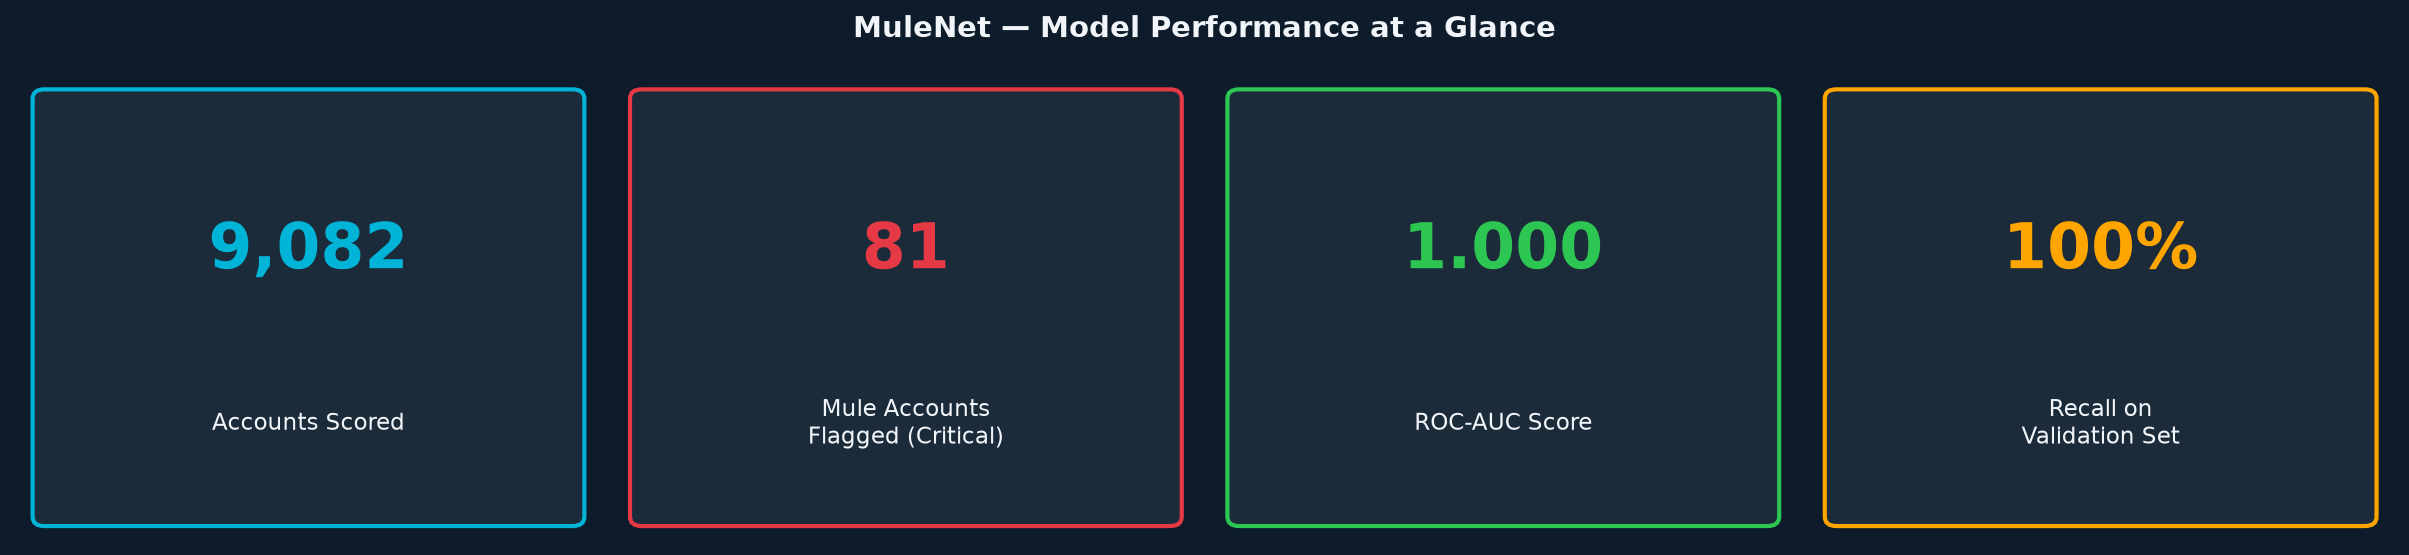
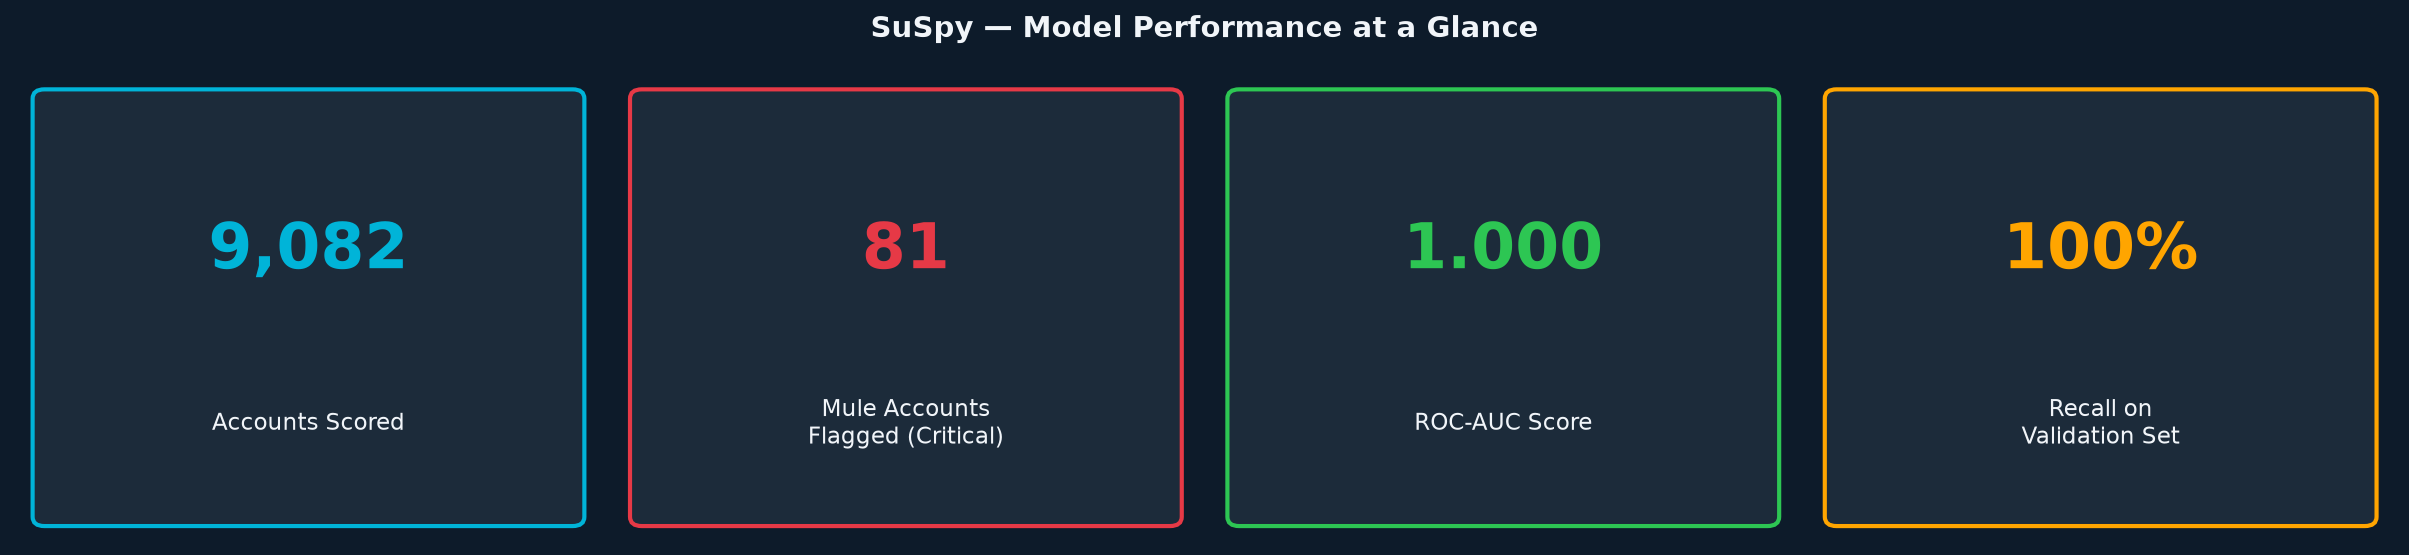
Replaced with new Name

Changed region(s): [[0.3425, 0.0306, 0.6538, 0.0919]]

diff --git a/src/score.py b/src/score.py
@@ -1,13 +1,3 @@
-"""
-MuleNet MVP — Risk scoring / inference
-
-Loads a trained XGBoost model and scores new accounts, producing
-a 0-100 Dynamic Risk Index (DRI) and risk tier per account.
-
-Usage:
-    python src/score.py --data data/new_accounts.csv --model outputs/mule_classifier.json
-"""
-
 import argparse
 import json
 import os
@@ -82,7 +72,7 @@ def main(data_path: str, model_path: str, out_path: str):
 
 
 if __name__ == "__main__":
-    parser = argparse.ArgumentParser(description="Score accounts with trained MuleNet model")
+    parser = argparse.ArgumentParser(description="Score accounts with trained SuSpy model")
     parser.add_argument("--data", required=True, help="Path to dataset CSV (with or without target)")
     parser.add_argument("--model", default="outputs/mule_classifier.json", help="Path to trained model")
     parser.add_argument("--out", default="outputs/risk_scores.csv", help="Output CSV path")

diff --git a/src/generate_report_assets.py b/src/generate_report_assets.py
@@ -1,9 +1,3 @@
-"""
-MuleNet — Report Asset Generator
-Produces all visual assets for the hackathon report and README.
-Run after training: python src/generate_report_assets.py
-"""
-
 import json
 import os
 import sys
@@ -76,7 +70,7 @@ def plot_stats_banner():
                 fontsize=11, color=LIGHT, transform=ax.transAxes,
                 multialignment="center")
 
-    fig.suptitle("MuleNet — Model Performance at a Glance",
+    fig.suptitle("SuSpy — Model Performance at a Glance",
                  fontsize=14, fontweight="bold", color=LIGHT, y=1.02)
     plt.tight_layout(pad=0.5)
     path = os.path.join(DOCS_DIR, "stats_banner.png")
@@ -179,7 +173,7 @@ def plot_architecture():
     ax.set_xlim(0, 14); ax.set_ylim(0, 5)
     ax.axis("off")
 
-    fig.suptitle("MuleNet — Full Architecture Vision",
+    fig.suptitle("SuSpy — Full Architecture Vision",
                  fontsize=15, fontweight="bold", color=LIGHT, y=0.97)
 
     layers = [

diff --git a/src/train.py b/src/train.py
@@ -1,5 +1,5 @@
 """
-MuleNet MVP — Mule Account Classifier
+SuSpy MVP — Mule Account Classifier
 Phase 1 hackathon proof-of-concept.
 
 Usage:
@@ -253,7 +253,7 @@ def main(data_path: str, sample_for_shap: int = 500):
 
 
 if __name__ == "__main__":
-    parser = argparse.ArgumentParser(description="Train MuleNet MVP classifier")
+    parser = argparse.ArgumentParser(description="Train SuSpy MVP classifier")
     parser.add_argument("--data", required=True, help="Path to dataset CSV")
     parser.add_argument("--shap-sample", type=int, default=500,
                          help="Number of validation rows to use for SHAP plot")

diff --git a/README.md b/README.md
@@ -1,4 +1,4 @@
-# MuleNet — AI/ML Mule Account Classifier
+# SuSpy — AI/ML Mule Account Classifier
 
 > **Hackathon Submission** · Problem Statement 2: AI/ML-Based Classification of Suspicious Mule Accounts
 
@@ -12,7 +12,7 @@
 
 Financial mule accounts are the conduit layer of money-laundering operations — controlled by criminals to receive and forward illicit funds while appearing legitimate on the surface. Detecting them requires separating a handful of bad actors from tens of thousands of normal accounts using only anonymised behavioural features.
 
-**MuleNet** is a layered machine-learning system designed to do exactly that. This submission delivers **Layers 1 and 2a** of the full vision: a production-ready feature engineering and XGBoost classification pipeline with SHAP-based explainability and a 0–100 **Dynamic Risk Index (DRI)** output. The full roadmap through a Graph Neural Network layer and an investigator dashboard is documented in [`docs/roadmap.md`](docs/roadmap.md).
+**SuSpy** is a layered machine-learning system designed to do exactly that. This submission delivers **Layers 1 and 2a** of the full vision: a production-ready feature engineering and XGBoost classification pipeline with SHAP-based explainability and a 0–100 **Dynamic Risk Index (DRI)** output. The full roadmap through a Graph Neural Network layer and an investigator dashboard is documented in [`docs/roadmap.md`](docs/roadmap.md).
 
 ---
 
@@ -34,7 +34,7 @@ Financial mule accounts are the conduit layer of money-laundering operations —
 
 ![Class Imbalance](docs/class_imbalance.png)
 
-The dataset presents a **111:1 class imbalance** — a realistic and severe challenge. MuleNet handles this via XGBoost's `scale_pos_weight` parameter (set to **110.8×**), which ensures the model is appropriately penalised for missing the rare positive class.
+The dataset presents a **111:1 class imbalance** — a realistic and severe challenge. SuSpy handles this via XGBoost's `scale_pos_weight` parameter (set to **110.8×**), which ensures the model is appropriately penalised for missing the rare positive class.
 
 | Metric | Value |
 |---|---|
@@ -76,7 +76,7 @@ Actual Mule    [    0     16  ]
 
 ## Explainability — SHAP
 
-A core requirement for compliance teams is **explainability**: investigators need to understand *why* an account was flagged. MuleNet integrates SHAP (SHapley Additive exPlanations) directly into the training pipeline.
+A core requirement for compliance teams is **explainability**: investigators need to understand *why* an account was flagged. SuSpy integrates SHAP (SHapley Additive exPlanations) directly into the training pipeline.
 
 ![SHAP Summary](docs/shap_summary.png)
 
@@ -112,7 +112,7 @@ The bimodal distribution (9,001 accounts at DRI ≈ 0, 81 accounts at DRI = 100)
 ## Project Structure
 
 ```
-Suspy/
+SuSpy/
 ├── data/                          # Dataset directory (CSV not committed)
 ├── docs/                          # Report assets, roadmap, charts
 │   ├── architecture.png
@@ -221,7 +221,7 @@ matplotlib>=3.7.0
 
 ## Roadmap
 
-See [`docs/roadmap.md`](docs/roadmap.md) for the full MuleNet vision:
+See [`docs/roadmap.md`](docs/roadmap.md) for the full SuSpy vision:
 
 - **Layer 2b**: GraphSAGE GNN to detect mule *rings* — accounts that look clean individually but sit inside a cluster of flagged nodes
 - **Layer 3**: DRI Fusion via a calibrated meta-learner, with temporal decay and network escalation logic

diff --git a/docs/roadmap.md b/docs/roadmap.md
@@ -1,4 +1,4 @@
-# Roadmap — MuleNet Full Vision
+# Roadmap — SuSpy Full Vision
 
 This MVP covers Layer 1 (feature engineering) and Layer 2a (XGBoost classifier
 with SHAP explainability). The full proposed solution adds two further layers: